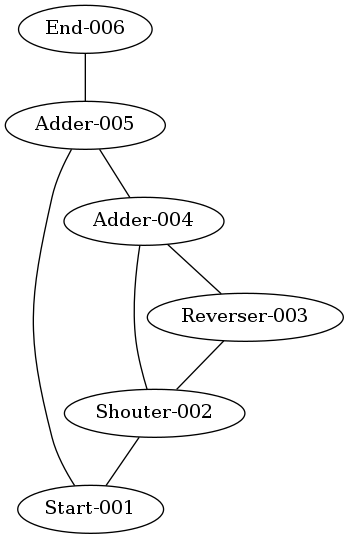
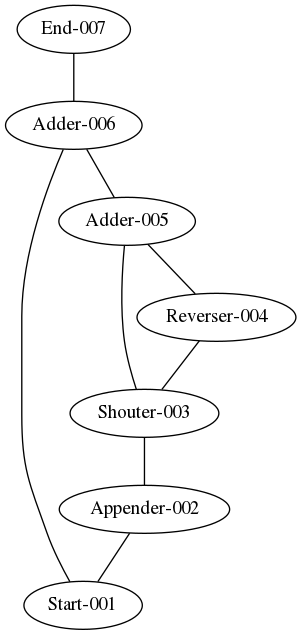
Work on detecting artefact changes

Changed region(s): [[0.0, 0.0, 0.9834, 1.0], [0.1788, 0.3859, 0.2682, 0.4453]]

diff --git a/pirec2/task.py b/pirec2/task.py
@@ -38,6 +38,21 @@ class Connector():
     def filename(self):
         return self._filename
 
+    @property
+    def complete(self):
+        if self.is_file:
+            # todo: need to verify checksum hasn't changed
+            return os.path.exists(self.filename)
+        else:
+            return False
+
+    @property
+    def changed(self):
+        if self.is_file:
+            return False
+        else:
+            return True
+
     @filename.setter
     def filename(self, v):
         self._filename = v
@@ -65,39 +80,6 @@ class Connector():
         return state
 
 
-class Source(Connector):
-    def __init__(self, parent, value=None, filename=None, key=None):
-        super().__init__(parent, value=value, filename=os.path.abspath(filename), key=key)
-
-    @property
-    def ready(self):
-        return True
-
-    @property
-    def value(self):
-        return self._value
-
-    @property
-    def filename(self):
-        return self._filename
-
-    @property
-    def full_filename(self):
-        return self._filename
-
-    @property
-    def parent(self):
-        return None
-
-    def as_dict(self):
-        state = {
-            'type': type(self).__name__,
-            'value': self.value,
-            'filename': self.filename
-        }
-        return state
-
-
 class Task():
     def __init__(self):
         pipeline = Pipeline()
@@ -113,16 +95,23 @@ class Task():
         pipeline = Pipeline()
         previous_dir = os.getcwd()
         self._working_dir = os.path.join(pipeline.working_dir, self.key)
-        os.makedirs(self._working_dir)
+        if not os.path.exists(self._working_dir):
+            os.makedirs(self._working_dir)
         os.chdir(self._working_dir)
         self._ready_inputs()
-        try:
-            self.process()
-        except Exception as e:
-            raise e
+        if (self._complete() is False) or (self._inputs_changed() is True):
+            print(self.key, 'not complete')
+            try:
+                self.process()
+            except Exception as e:
+                raise e
+            else:
+                self.ready = True
+            finally:
+                os.chdir(previous_dir)
         else:
+            print(self.key, 'already complete')
             self.ready = True
-        finally:
             os.chdir(previous_dir)
 
     @property
@@ -135,11 +124,8 @@ class Task():
             self._ip_map[id(ip)] = filename
         return ip
 
-    def add_output(self, value=None, filename=None, source=False):
-        if source:
-            op = Source(self, value=value, filename=filename)
-        else:
-            op = Connector(self, filename=filename, key=len(self._outputs))
+    def add_output(self, value=None, filename=None):
+        op = Connector(self, value=value, filename=filename, key=len(self._outputs))
         self._outputs.append(op)
         return op
 
@@ -152,6 +138,14 @@ class Task():
                 ip.run()
             if ip.is_file:
                 self._get_file(ip)
+
+    def _complete(self):
+        completion = [op.complete for op in self._outputs]
+        return all(completion)
+
+    def _inputs_changed(self):
+        change = [ip.changed for ip in self._inputs]
+        return any(change)
 
     def _ip_name(self, ip):
         return self._ip_map[id(ip)]

diff --git a/stages.py b/stages.py
@@ -3,9 +3,10 @@ from pirec2.task import InputTask, Task, Pipeline
 
 
 class Start(InputTask):
-    def __init__(self, the_file):
+    def __init__(self, the_file, surname):
         super().__init__()
         self.the_file = self.add_output(filename=the_file)
+        self.surname = self.add_output(value=surname)
 
     def process(self):
         pass
@@ -23,6 +24,22 @@ class Shouter(Task):
         with open('quiet.txt', 'r') as quiet_file:
             with open(self.loud.filename, 'w') as loud_file:
                 loud_file.write(str.upper(quiet_file.read()))
+
+
+class Appender(Task):
+    def __init__(self, before, extra_text):
+        super().__init__()
+        self.before = self.add_input(before, filename='before.txt')
+        self.extra_text = self.add_input(extra_text)
+        self.appended = self.add_output(filename='appended.txt')
+
+    def process(self):
+        p = Pipeline()
+        p.logger.info('running Appended in %s', os.getcwd())
+        with open('before.txt', 'r') as before_file:
+            with open(self.appended.filename, 'w') as appended_file:
+                appended_file.write(before_file.read())
+                appended_file.write(self.extra_text.value)
 
 
 class Reverser(Task):

diff --git a/test.py b/test.py
@@ -15,8 +15,9 @@ if __name__ == '__main__':
     if not os.path.exists(tmp_path):
         os.makedirs(tmp_path)
     pipeline = Pipeline(working_dir=tmp_path)
-    start = stages.Start('test.txt')
-    shouter = stages.Shouter(start.the_file)
+    start = stages.Start('test.txt', 'wibble')
+    appender = stages.Appender(start.the_file, start.surname)
+    shouter = stages.Shouter(appender.appended)
     reverser = stages.Reverser(shouter.loud)
     added = stages.Adder(shouter.loud, reverser.backward)
     other_added = stages.Adder(start.the_file, added.joined)
